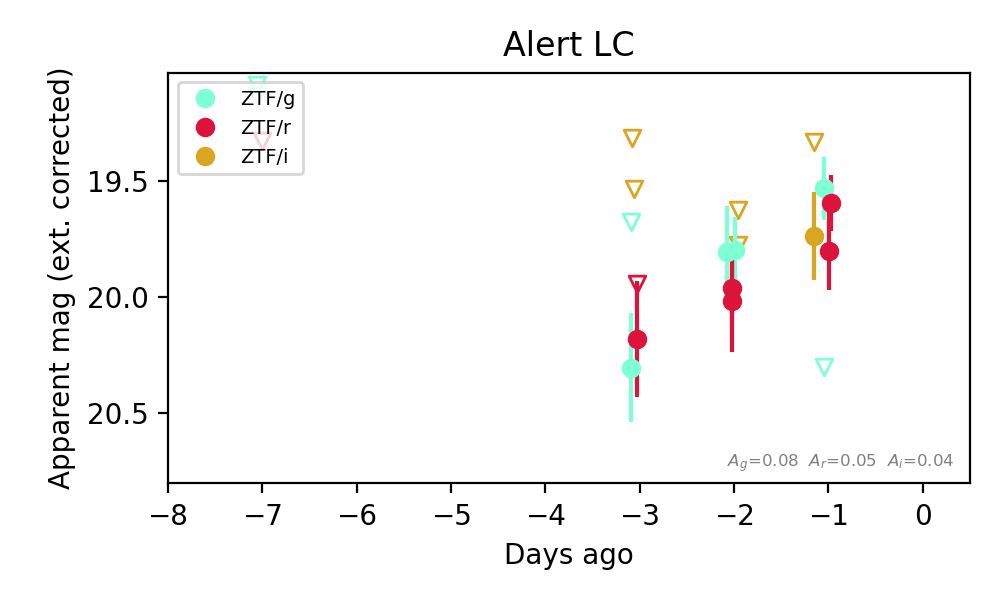
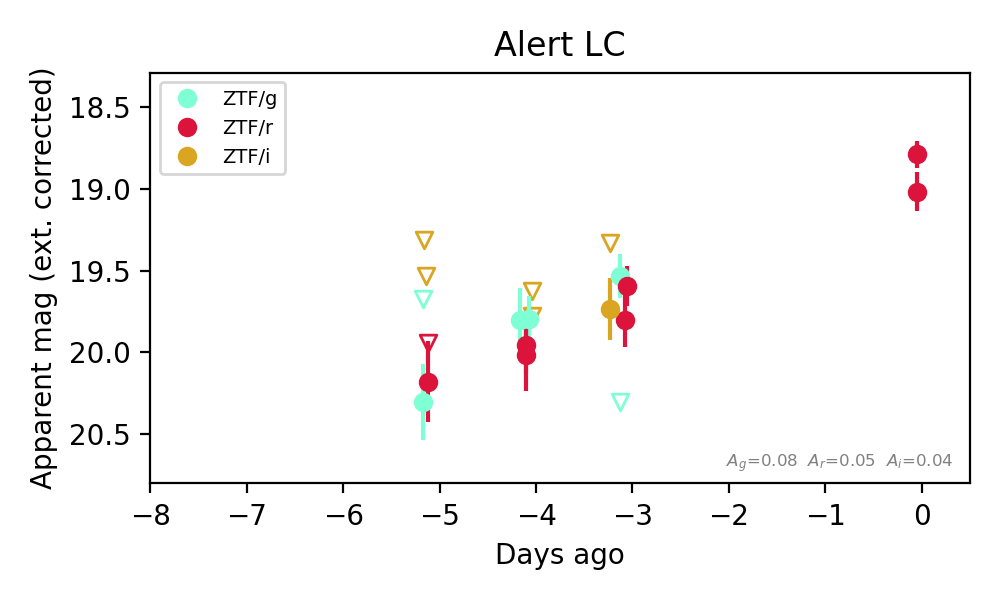
Update HTML from cron job on Tue Sep  8 09:01:19 AM EDT 2026

diff --git a/html/20260908_fastcand.html b/html/20260908_fastcand.html
@@ -1,1 +1,1 @@
-<!doctype html><html><head><title>SOURCE MARSHAL</title><style>                  * {                     box-sizing: border-box;                  }                /* Create two equal columns that floats next to each other */                .column {                         float: left;                         width: 50%;                         padding: 10px;                         #height: 220px; /* Should be removed. Only for demonstration */                }                /* Clear floats after the columns */                .row:after {                        content: "";                        display: table;                        clear: both;                }                /* Rounded corner definition */                #rcorners2 {                    border-radius: 15px;                    border: 2px solid #73AD21;                    padding: 15px;                     width: 80%;                }                table, th, td {                    border: 1px solid black;                    border-collapse: collapse;                }                th, td {                    padding: 5px;                }                th {                    text-align: right;                }                .boxed {                    width: 300px;                    border: 3px outset green;                    text-align: center;                    font-size: 20px;                    margin: 10px;                }                 </style></head><body><font size="5" color="green">Candidate List 20260908</font></br><font size="3" color="green">Last night &mdash; ZTF: 71 passed basic cuts (1 young) &middot; LSST: 0 passed basic cuts (0 young)</font></br></br><a href=20260907_fastcand.html target="_blank"><font size="3" color="green">Previous Day</font></a>&nbsp;&nbsp;&nbsp;&nbsp;<a href=20260909_fastcand.html target="_blank"><font size="3" color="green">Next Day</font></a>&nbsp;&nbsp;&nbsp;&nbsp;<br><br><font size="4" color="green"><a href="#sec1">Section 1: New Sources (age<1d)</a></font>&nbsp;&nbsp;&nbsp;&nbsp;<font size="4" color="green"><a href="#sec2">Section 2: Old (1-5d) sources observed last night</a></font></br><font size="1" color="white">placeholder</font></br><hr style="width:50%;text-align:left;margin-left:0"><br><div id="sec2"></div><div class="boxed">Section 2: Older Sources Observed Last Night (0)</div><br>
+<!doctype html><html><head><title>SOURCE MARSHAL</title><style>                  * {                     box-sizing: border-box;                  }                /* Create two equal columns that floats next to each other */                .column {                         float: left;                         width: 50%;                         padding: 10px;                         #height: 220px; /* Should be removed. Only for demonstration */                }                /* Clear floats after the columns */                .row:after {                        content: "";                        display: table;                        clear: both;                }                /* Rounded corner definition */                #rcorners2 {                    border-radius: 15px;                    border: 2px solid #73AD21;                    padding: 15px;                     width: 80%;                }                table, th, td {                    border: 1px solid black;                    border-collapse: collapse;                }                th, td {                    padding: 5px;                }                th {                    text-align: right;                }                .boxed {                    width: 300px;                    border: 3px outset green;                    text-align: center;                    font-size: 20px;                    margin: 10px;                }                 </style></head><body><font size="5" color="green">Candidate List 20260908</font></br><font size="3" color="green">Last night &mdash; ZTF: 340 passed basic cuts (5 young) &middot; LSST: 0 passed basic cuts (0 young)</font></br></br><a href=20260907_fastcand.html target="_blank"><font size="3" color="green">Previous Day</font></a>&nbsp;&nbsp;&nbsp;&nbsp;<a href=20260909_fastcand.html target="_blank"><font size="3" color="green">Next Day</font></a>&nbsp;&nbsp;&nbsp;&nbsp;<br><br><font size="4" color="green"><a href="#sec1">Section 1: New Sources (age<1d)</a></font>&nbsp;&nbsp;&nbsp;&nbsp;<font size="4" color="green"><a href="#sec2">Section 2: Old (1-5d) sources observed last night</a></font></br><font size="1" color="white">placeholder</font></br><hr style="width:50%;text-align:left;margin-left:0"><br><div id="sec1"></div><div class="boxed">Section 1: New Afterglow/FBOT Cands Last Night (0)</div><br><br><br><div id="sec2"></div><div class="boxed">Section 2: Older Sources Observed Last Night (1)</div><div id="ZTF26abrusrs"></div>0. <a href="#ZTF26absfire"><b><font size="3">[ZTF] ZTF26absfire (Afterglow?FBOT?)</font></b></a>&nbsp;&nbsp;&nbsp;&nbsp;<a href=#top>[Back to Top]</a>&nbsp;&nbsp;&nbsp;&nbsp;<a href=./ZTF26absfire_announcement.txt>[Share]</a>&nbsp;&nbsp;&nbsp;&nbsp;<a href=./ZTF26absfire_swifttoo.txt>[Trigger Swift]</a></br>&nbsp;&nbsp;&nbsp;&nbsp;[<a href="https://fritz.science/brokers?objectId=ZTF26absfire&survey=ZTF&ra=29.6819476&dec=1.4607488000000002&radius=3" target="_blank">Fritz Alert</a>]&nbsp;&nbsp;&nbsp;&nbsp;[<a href="https://fritz.science/source/ZTF26absfire" target="_blank">Fritz Source</a>]&nbsp;&nbsp;&nbsp;&nbsp;[<a href="https://lasair-ztf.lsst.ac.uk/objects/ZTF26absfire/" target="_blank">Lasair</a>]</br>RA, Dec: 29.68195, 1.46075&nbsp;&nbsp;&nbsp;&nbsp; 1h58m43.67s,  1d27m38.70s</br>Galactic (l, b): 155.15473, -57.14024&nbsp;&nbsp;&nbsp;&nbsp;ext(g-r) = 0.026</br></br><img src="./ZTF26absfire_triplet.png" height="200"><a href = http://ps1images.stsci.edu/cgi-bin/ps1cutouts?pos=29.681948+1.460749&filter=color&filter=g&filter=r&filter=i&filter=z&filter=y&filetypes=stack&auxiliary=data&size=240&output_size=240&verbose=0&autoscale=99.500000><img src="./ZTF26absfire_ps1.png" height="200"></a><a href = http://legacysurvey.org/viewer?ra=29.681948&dec=+1.460749&zoom=16&layer=ls-dr10><img src="ZTF26absfire_ls.png" height="200"></a></br><br><br>TESS: Sectors [ 4 42 70 97]<br>SDSS (<15 kpc):Found SDSS phot-z: z=0.88; <b>peak abs mag = -25.05</b><br><br><br><br>PS1: 0 sources in 3 arcsec</br><br><b>LegacySurvey: 1 sources in 3 arcsec</b>&nbsp;&nbsp;&nbsp;&nbsp;Closest: d = 1.48 arcsec, 284.4 deg (east of north)</br>&nbsp;&nbsp;&nbsp;&nbsp;photoz=0.13 (68&#37; bounds 0.09, 0.17),                         type=REX&nbsp;&nbsp;&nbsp;&nbsp;<b>peak abs mag (ext. corrected) = -20.27 (68&#37; bounds -19.35, -20.92)</b><br><img src="ZTF26absfire_alert_lc.png" height="300"><br>Extinction-corrected gr color:<br>From alerts: -0.13 +/- 0.17 mag<br>Extinction-corrected gi color:<br>From alerts: -0.2 +/- 0.23 mag<br>Extinction-corrected ri color:<br>From alerts: -0.07 +/- 0.21 mag<br><b> Consistent with synchrotron, g-r>0!</b><br>Rise Rate:<br>g: 0.35 mag/day <br>r: 0.27 mag/day <br><br>Fade Rate:<br>g: 0.54 mag/day <br><br><br><br>
